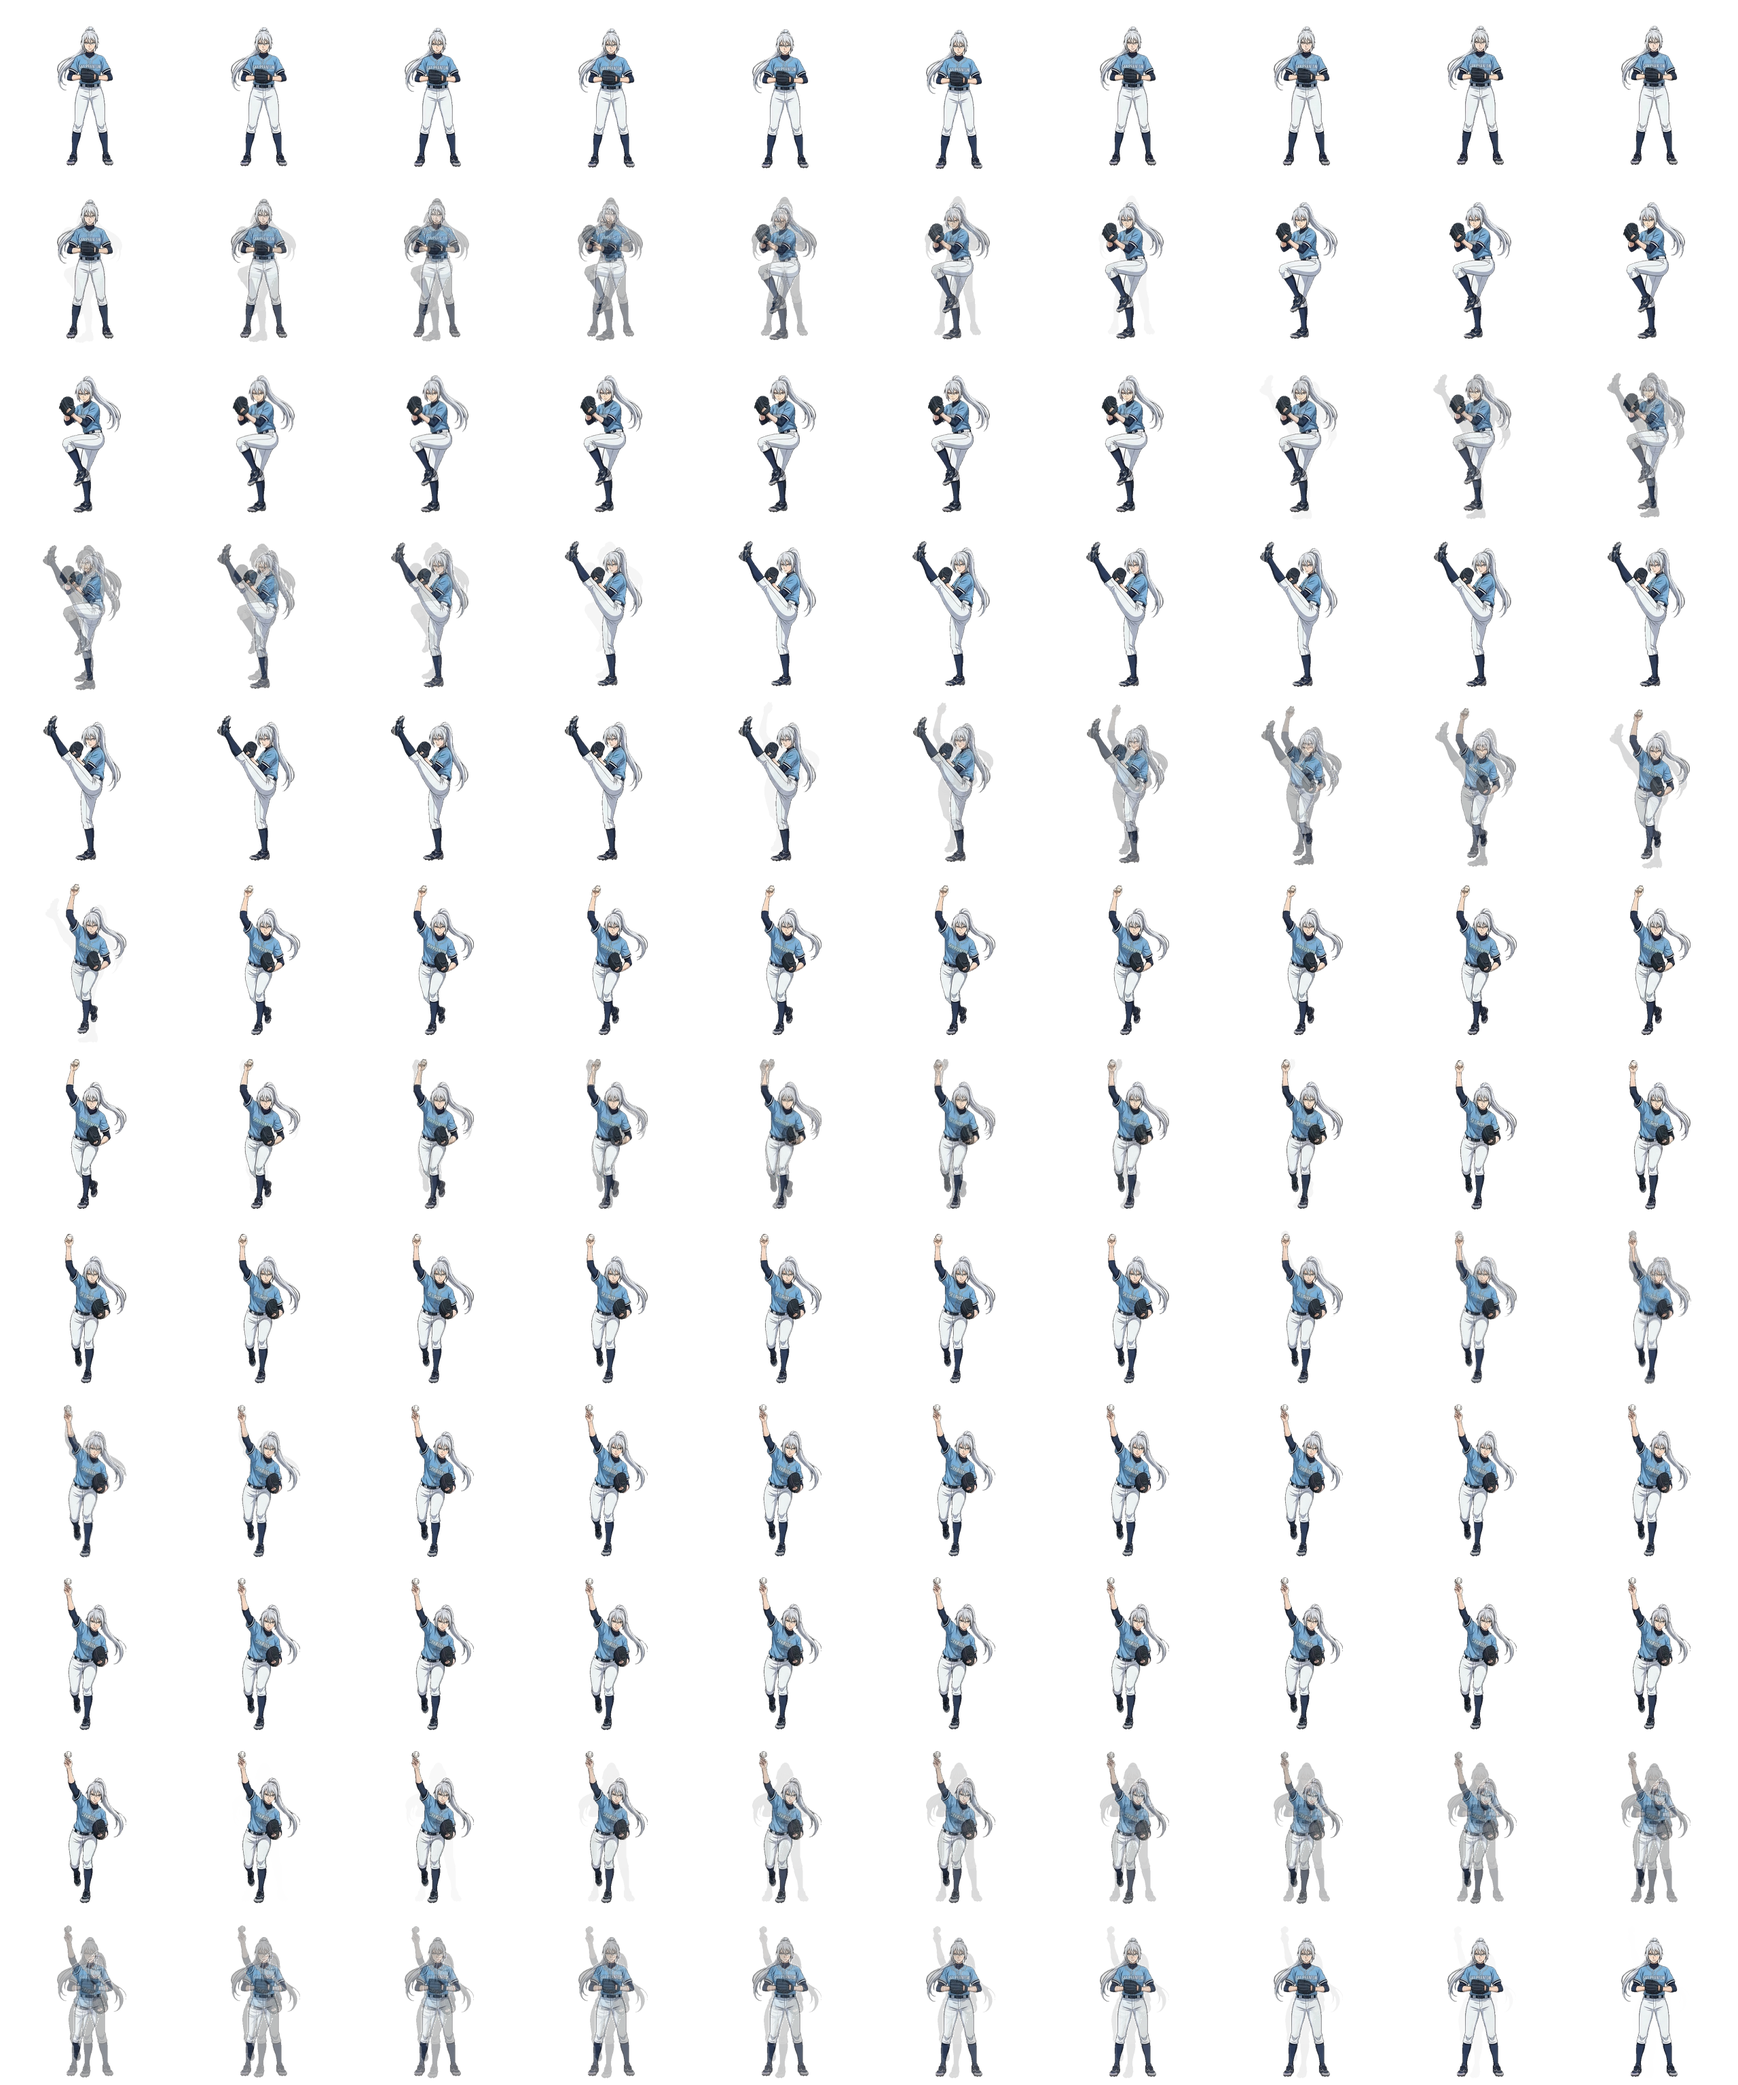
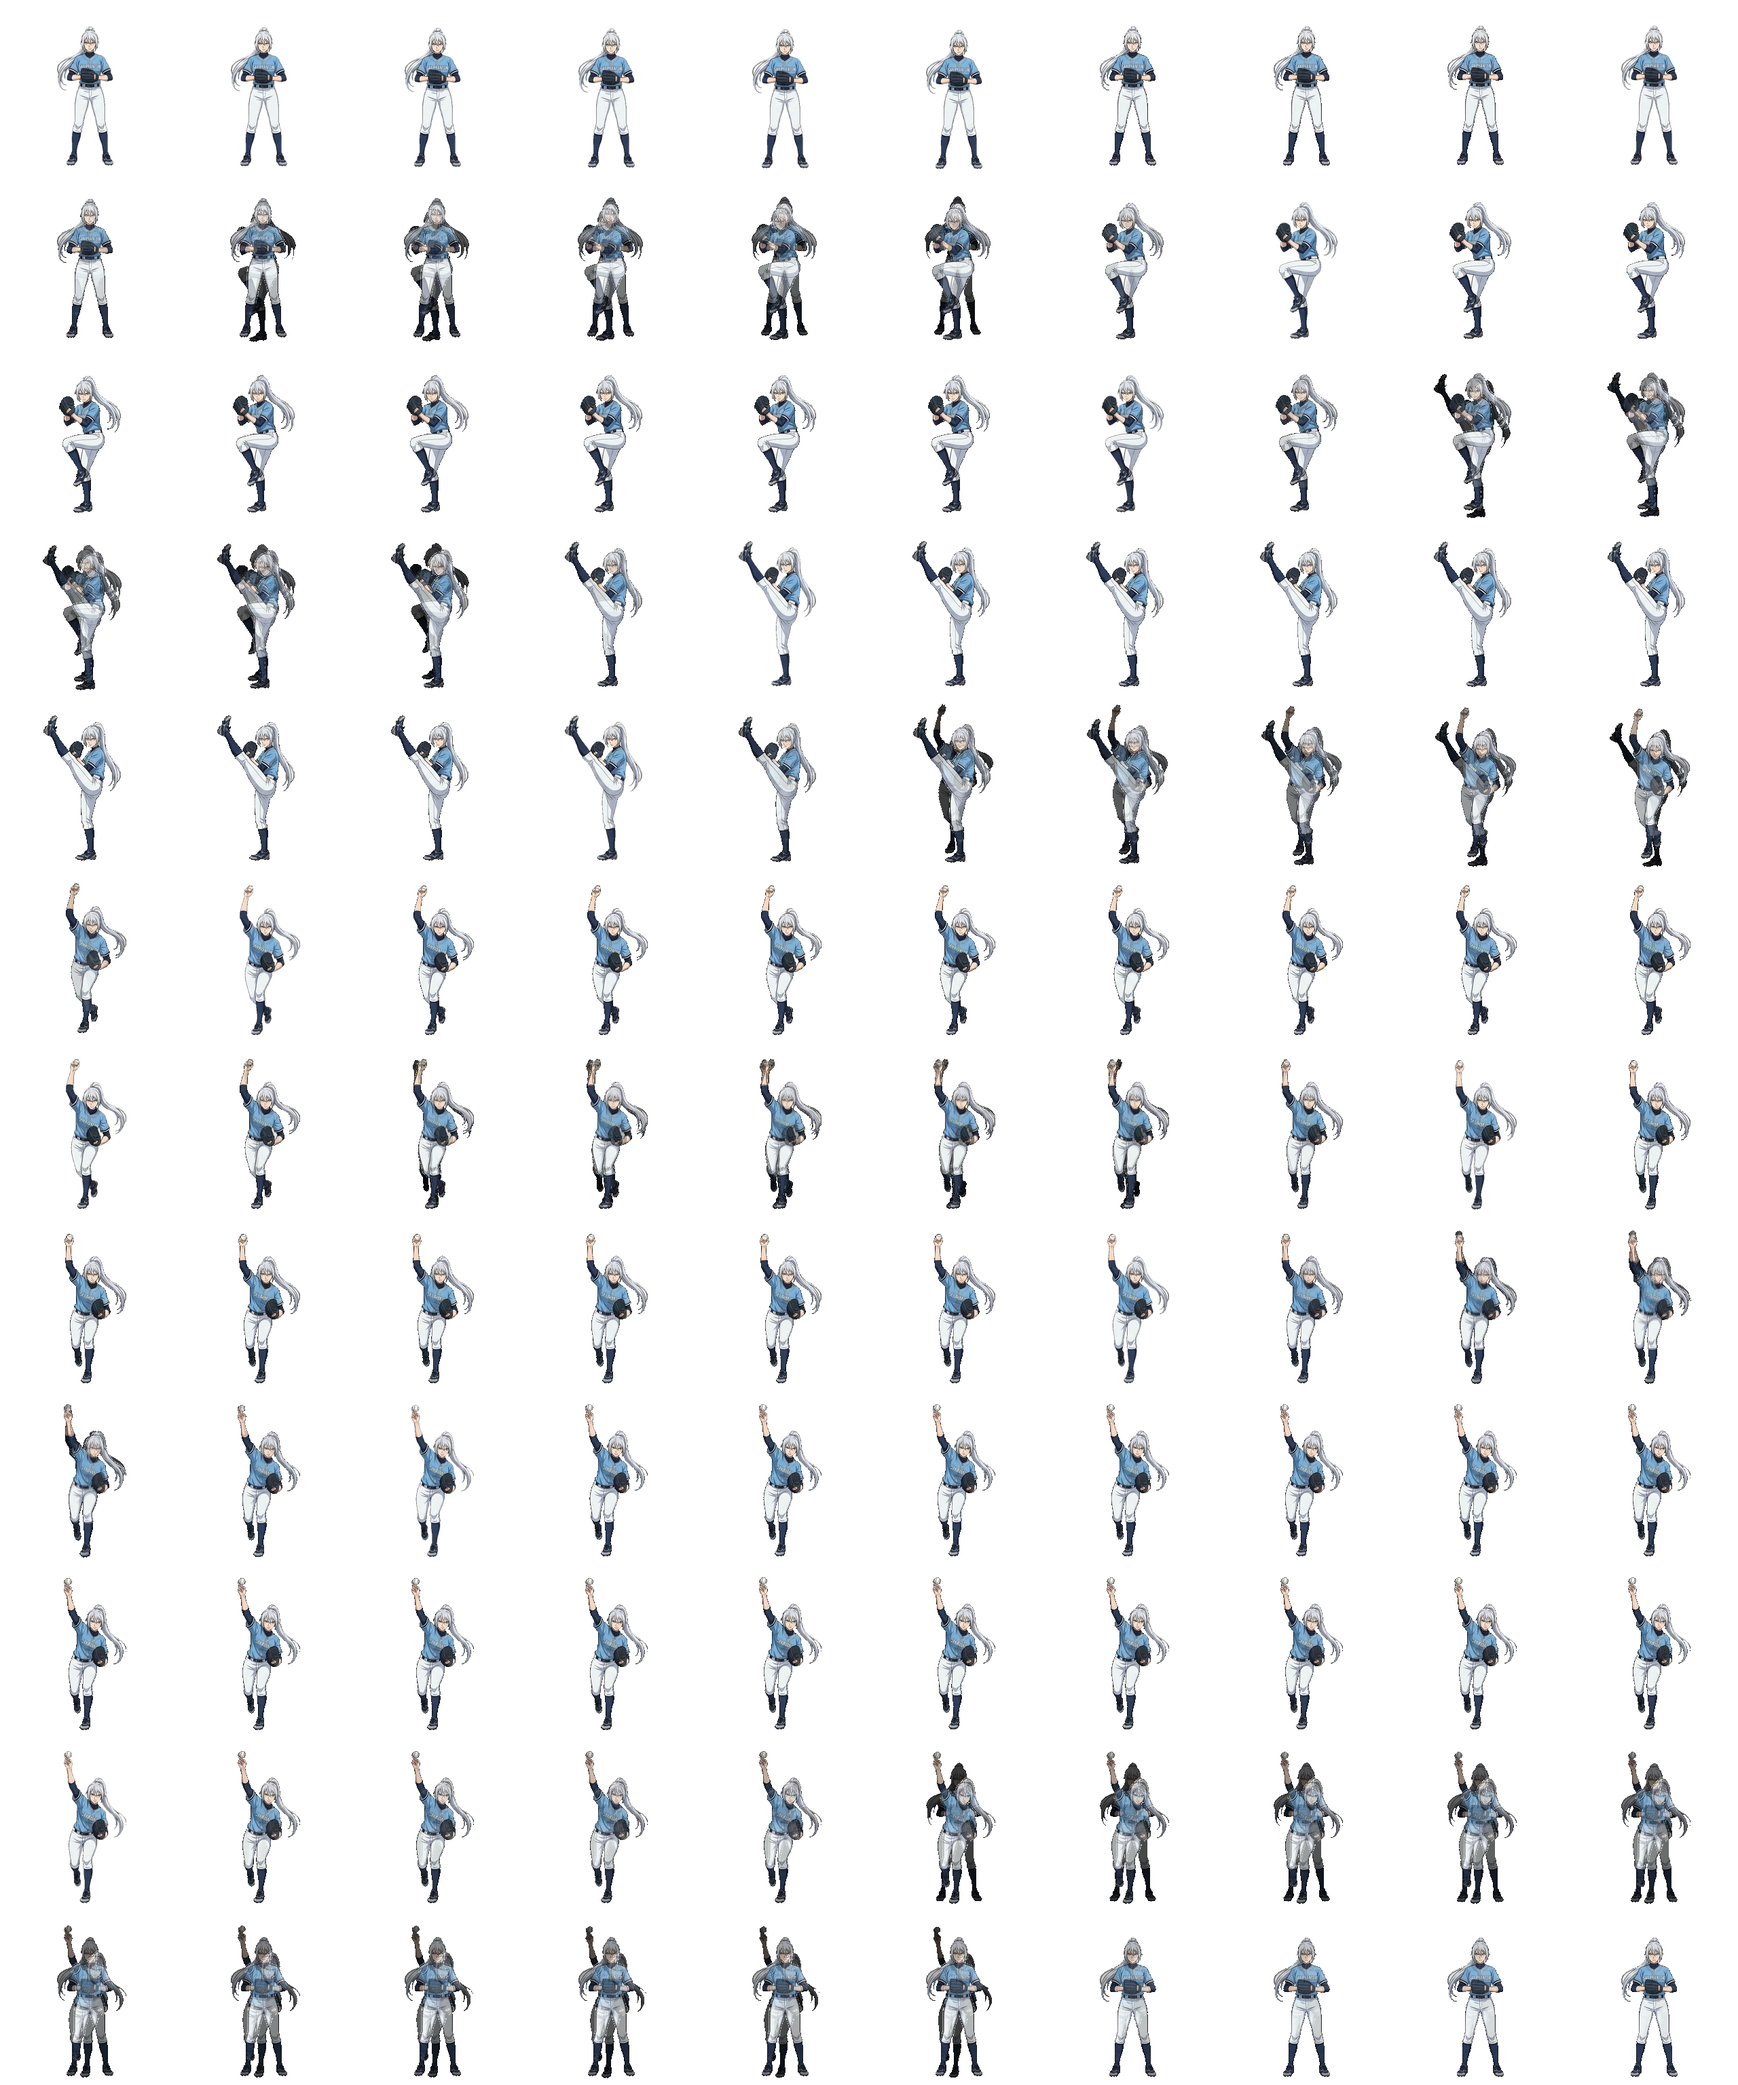
fix: remove stuttering easing from morph blend and enforce solid alpha threshold

diff --git a/scripts/build_catcher_pitcher.py b/scripts/build_catcher_pitcher.py
@@ -252,12 +252,9 @@ def vector_morph_blend(pose_a: Image.Image, pose_b: Image.Image, t: float) -> Im
     if t >= 0.999:
         return pose_b
 
-    # Ease-in-out cubic for a more explosive whip-like acceleration
-    if t < 0.5:
-        smooth_t = 4.0 * t * t * t
-    else:
-        f = (2.0 * t - 2.0)
-        smooth_t = 1.0 + 0.5 * f * f * f
+    # Use linear easing to prevent the character from stopping at every single waypoint.
+    # The global acceleration rhythm is dictated by the timeline's dwell times.
+    smooth_t = t 
 
     arr_a = np.asarray(pose_a)
     arr_b = np.asarray(pose_b)
@@ -271,11 +268,8 @@ def vector_morph_blend(pose_a: Image.Image, pose_b: Image.Image, t: float) -> Im
     ca_x, ca_y = np.mean(xs_a), np.mean(ys_a)
     cb_x, cb_y = np.mean(xs_b), np.mean(ys_b)
 
-    # Add a slight vertical arc to the motion to prevent flat ghosting
-    arc = math.sin(t * math.pi) * 3.0
-
     shift_x = (cb_x - ca_x) * smooth_t
-    shift_y = (cb_y - ca_y) * smooth_t - arc
+    shift_y = (cb_y - ca_y) * smooth_t
 
     a_shifted = pose_a.transform(
         pose_a.size,
@@ -285,7 +279,7 @@ def vector_morph_blend(pose_a: Image.Image, pose_b: Image.Image, t: float) -> Im
         fillcolor=(0, 0, 0, 0),
     )
     b_shift_x = -(cb_x - ca_x) * (1.0 - smooth_t)
-    b_shift_y = -(cb_y - ca_y) * (1.0 - smooth_t) - arc
+    b_shift_y = -(cb_y - ca_y) * (1.0 - smooth_t)
     b_shifted = pose_b.transform(
         pose_b.size,
         Image.Transform.AFFINE,
@@ -294,7 +288,17 @@ def vector_morph_blend(pose_a: Image.Image, pose_b: Image.Image, t: float) -> Im
         fillcolor=(0, 0, 0, 0),
     )
 
-    return Image.blend(a_shifted, b_shifted, smooth_t)
+    # Blend and threshold the alpha to create a solid "in-between" drawing effect
+    # rather than a blurry ghost crossfade.
+    blended = Image.blend(a_shifted, b_shifted, smooth_t)
+    blended_arr = np.asarray(blended).copy()
+    
+    # Sharp alpha cutoff
+    alpha = blended_arr[:, :, 3]
+    # If the combined alpha is decent, make it solid
+    blended_arr[:, :, 3] = np.where(alpha > 60, 255, 0)
+    
+    return Image.fromarray(blended_arr)
 
 
 def build_catcher_atlas(
